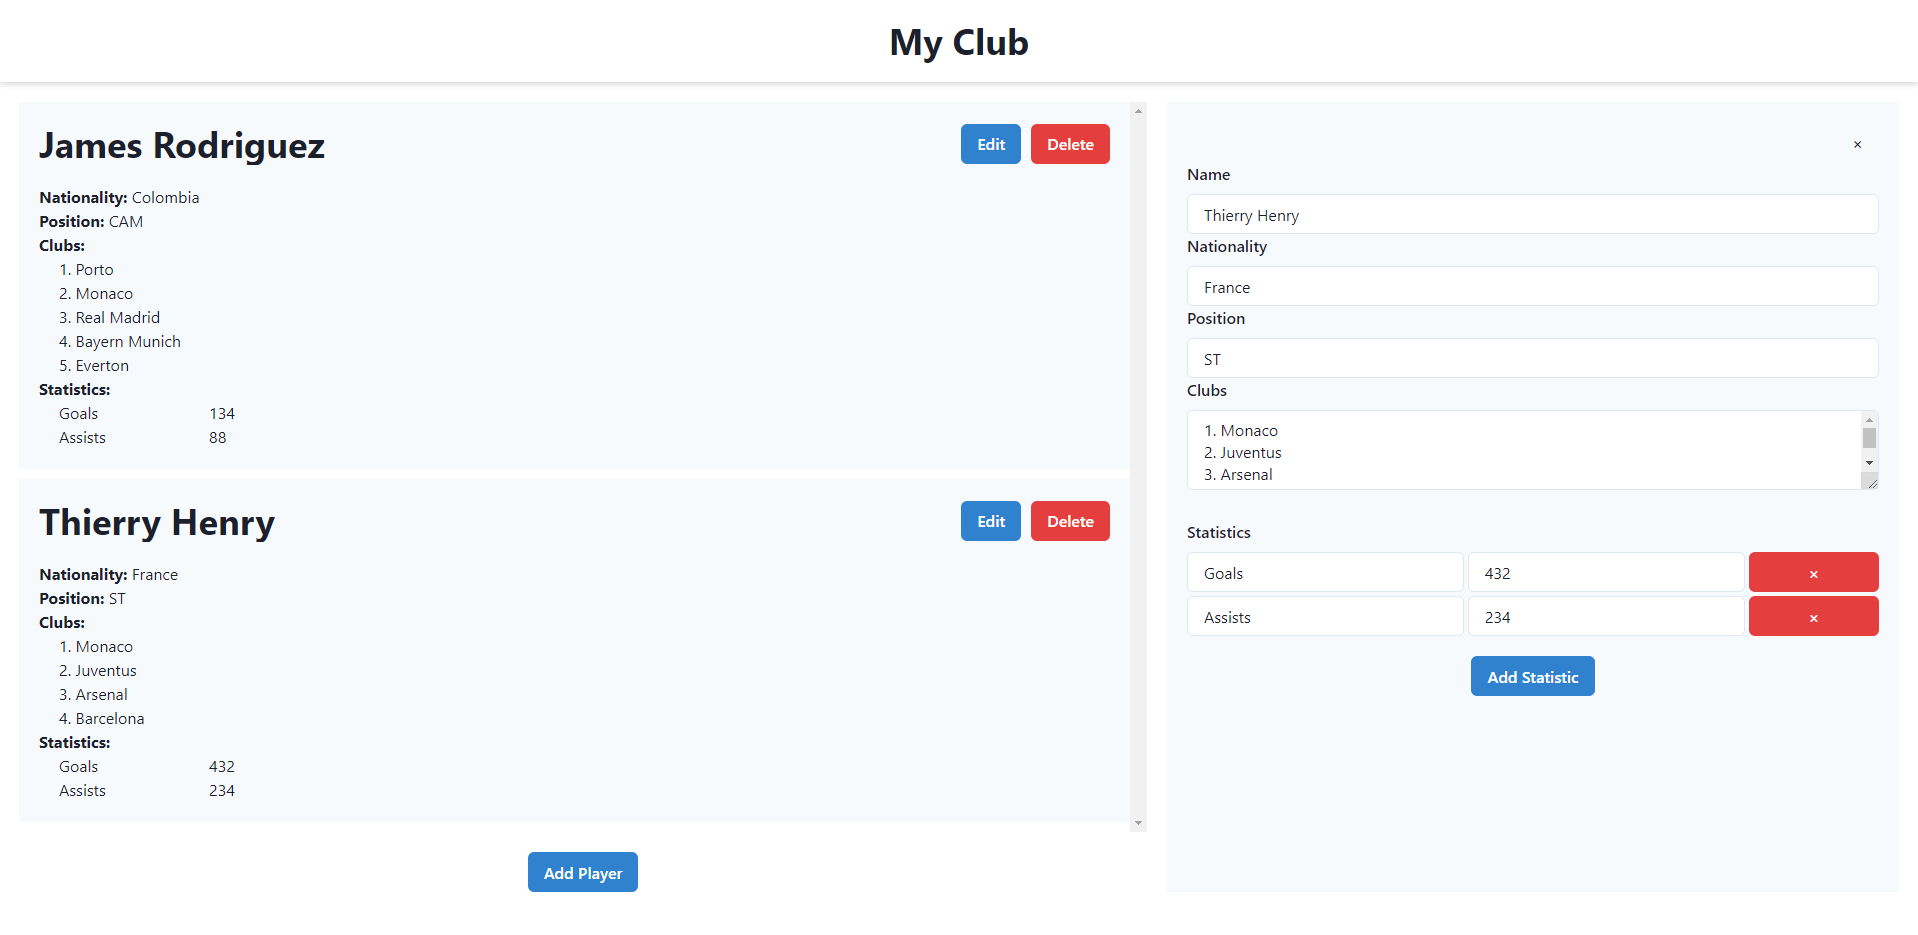
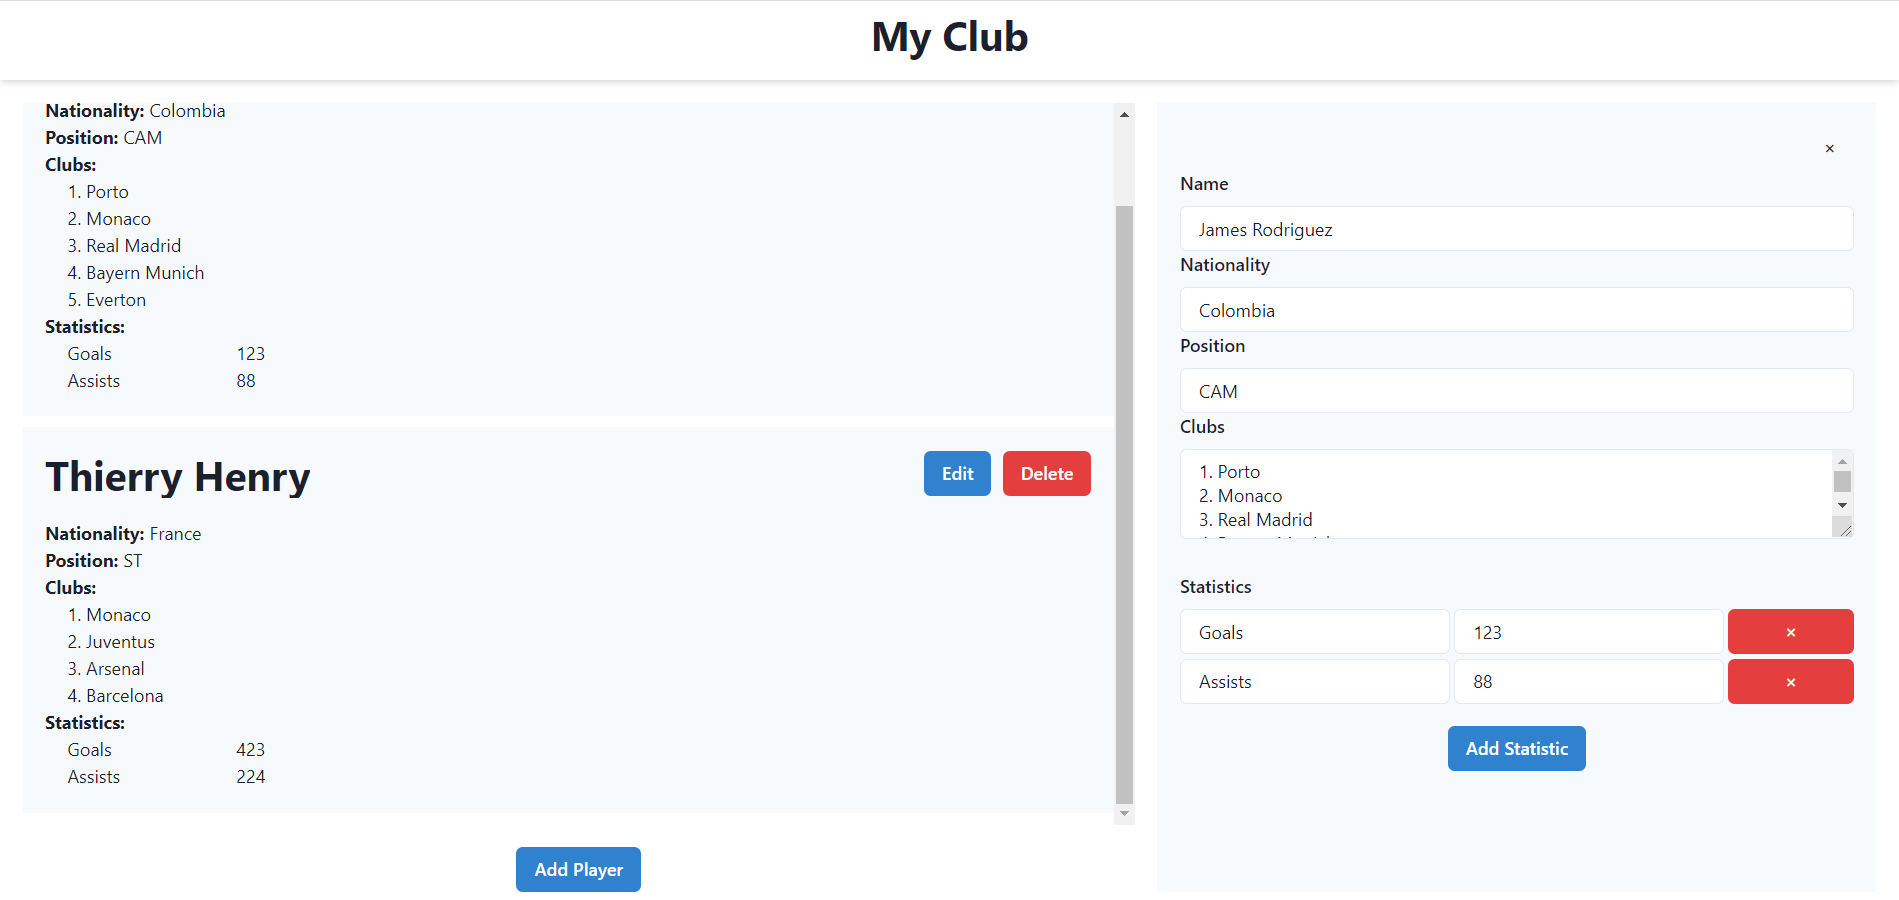
App finished

diff --git a/src/App.js b/src/App.js
@@ -1,22 +1,27 @@
 import React, { useState, useEffect } from "react";
-import "./App.scss";
-import { v4 as uuidv4 } from "uuid";
+import { Grid } from "@chakra-ui/react";
 
+import "./App.scss";
 import PlayerList from "./components/PlayerList";
 import PlayerEdit from "./components/PlayerEdit";
 import Navbar from "./components/Navbar";
+import { samplePlayers } from "./sample-players";
 
-import { Grid } from "@chakra-ui/react";
+// Library for generating random unique ids
+import { v4 as uuidv4 } from "uuid";
 
 export const PlayerContext = React.createContext();
 
 function App() {
   const [selectedPlayerId, setSelectedPlayerId] = useState();
   const [players, setPlayers] = useState(samplePlayers);
+
+  // Get a player with selected id
   const selectedPlayer = players.find(
     (player) => player.id === selectedPlayerId
   );
 
+  // On first render set players to players from LS, otherwise set them to samplePlayers
   useEffect(() => {
     const playersJSON = localStorage.getItem("players");
     if (playersJSON != null) {
@@ -24,10 +29,12 @@ function App() {
     }
   }, []);
 
+  // On first render and when players change, set them to LS
   useEffect(() => {
     localStorage.setItem("players", JSON.stringify(players));
   }, [players]);
 
+  // Declare functions for CRUD operations with players, pass them to context
   const playerContextValue = {
     handlePlayerAdd,
     handlePlayerDelete,
@@ -35,6 +42,7 @@ function App() {
     handlePlayerChange,
   };
 
+  // Add blank player and select him
   function handlePlayerAdd() {
     const newPlayer = {
       id: uuidv4(),
@@ -48,6 +56,7 @@ function App() {
     setPlayers([...players, newPlayer]);
   }
 
+  // Change player after editing
   function handlePlayerChange(id, player) {
     const newPlayers = [...players];
     const index = newPlayers.findIndex((player) => player.id === id);
@@ -55,6 +64,7 @@ function App() {
     setPlayers(newPlayers);
   }
 
+  // Delete player by id passed
   function handlePlayerDelete(id) {
     if (selectedPlayerId != null && selectedPlayerId === id) {
       setSelectedPlayerId(undefined);
@@ -62,6 +72,7 @@ function App() {
     setPlayers(players.filter((player) => player.id !== id));
   }
 
+  // Select player (set the state)
   function handlePlayerSelect(id) {
     setSelectedPlayerId(id);
   }
@@ -76,46 +87,5 @@ function App() {
     </PlayerContext.Provider>
   );
 }
-
-const samplePlayers = [
-  {
-    id: 1,
-    name: "James Rodriguez",
-    nationality: "Colombia",
-    position: "CAM",
-    clubs: "1. Porto\n2. Monaco\n3. Real Madrid\n4. Bayern Munich\n5. Everton",
-    statistics: [
-      {
-        id: 1,
-        name: "Goals",
-        amount: 123,
-      },
-      {
-        id: 2,
-        name: "Assists",
-        amount: 88,
-      },
-    ],
-  },
-  {
-    id: 2,
-    name: "Thierry Henry",
-    nationality: "France",
-    position: "ST",
-    clubs: "1. Monaco\n2. Juventus\n3. Arsenal\n4. Barcelona",
-    statistics: [
-      {
-        id: 1,
-        name: "Goals",
-        amount: 423,
-      },
-      {
-        id: 2,
-        name: "Assists",
-        amount: 224,
-      },
-    ],
-  },
-];
 
 export default App;

diff --git a/src/components/PlayerEdit.js b/src/components/PlayerEdit.js
@@ -1,8 +1,5 @@
 import React, { useContext } from "react";
-import StatisticEdit from "./StatisticEdit";
 import { PlayerContext } from "../App";
-import { v4 as uuidv4 } from "uuid";
-
 import {
   Flex,
   Box,
@@ -14,6 +11,11 @@ import {
   Stat,
 } from "@chakra-ui/react";
 
+import StatisticEdit from "./StatisticEdit";
+
+// Lib for generating random unique id
+import { v4 as uuidv4 } from "uuid";
+
 export default function PlayerEdit({ player }) {
   const { handlePlayerChange, handlePlayerSelect } = useContext(PlayerContext);
 
@@ -21,6 +23,7 @@ export default function PlayerEdit({ player }) {
     handlePlayerChange(player.id, { ...player, ...changes });
   }
 
+  // Similar to handlePlayerChange, replace changed statistic with new one
   function handleStatisticChange(id, statistic) {
     const newStatistics = [...player.statistics];
     const index = newStatistics.findIndex((statistic) => statistic.id === id);
@@ -28,6 +31,7 @@ export default function PlayerEdit({ player }) {
     handleChange({ statistics: newStatistics });
   }
 
+  // Create blank statistic
   function handleStatisticAdd() {
     const newStatistic = {
       id: uuidv4(),
@@ -37,6 +41,7 @@ export default function PlayerEdit({ player }) {
     handleChange({ statistics: [...player.statistics, newStatistic] });
   }
 
+  // Delete statistic by id passed
   function handleStatisticDelete(id) {
     handleChange({
       statistics: player.statistics.filter((statistic) => statistic.id !== id),

diff --git a/src/sample-players.js b/src/sample-players.js
@@ -1,0 +1,41 @@
+// Default players if there is no player in LS
+export const samplePlayers = [
+  {
+    id: 1,
+    name: "James Rodriguez",
+    nationality: "Colombia",
+    position: "CAM",
+    clubs: "1. Porto\n2. Monaco\n3. Real Madrid\n4. Bayern Munich\n5. Everton",
+    statistics: [
+      {
+        id: 1,
+        name: "Goals",
+        amount: 123,
+      },
+      {
+        id: 2,
+        name: "Assists",
+        amount: 88,
+      },
+    ],
+  },
+  {
+    id: 2,
+    name: "Thierry Henry",
+    nationality: "France",
+    position: "ST",
+    clubs: "1. Monaco\n2. Juventus\n3. Arsenal\n4. Barcelona",
+    statistics: [
+      {
+        id: 1,
+        name: "Goals",
+        amount: 423,
+      },
+      {
+        id: 2,
+        name: "Assists",
+        amount: 224,
+      },
+    ],
+  },
+];

diff --git a/src/components/PlayerList.js b/src/components/PlayerList.js
@@ -1,11 +1,11 @@
 import React, { useContext } from "react";
-import Player from "./Player";
 import { PlayerContext } from "../App";
-
 import { Box, Button, Flex } from "@chakra-ui/react";
 
+import Player from "./Player";
+
 export default function PlayerList({ players }) {
-  const { handlePlayerAdd, handlePlayerDelete } = useContext(PlayerContext);
+  const { handlePlayerAdd } = useContext(PlayerContext);
 
   return (
     <Box className="PlayerList">

diff --git a/src/components/Player.js b/src/components/Player.js
@@ -1,8 +1,8 @@
 import React, { useContext, useEffect } from "react";
-import StatisticList from "./StatisticList";
+import { Box, Flex, Heading, Button } from "@chakra-ui/react";
 import { PlayerContext } from "../App";
 
-import { Box, Flex, Heading, Button } from "@chakra-ui/react";
+import StatisticList from "./StatisticList";
 
 export default function Player(props) {
   const { handlePlayerDelete, handlePlayerSelect } = useContext(PlayerContext);

diff --git a/src/components/StatisticEdit.js b/src/components/StatisticEdit.js
@@ -1,10 +1,10 @@
 import React from "react";
-
 import { Grid, FormControl, Input, Button } from "@chakra-ui/react";
 
 export default function StatisticEdit(props) {
   const { statistic, handleStatisticChange, handleStatisticDelete } = props;
 
+  // Change statistic
   function handleChange(changes) {
     handleStatisticChange(statistic.id, { ...statistic, ...changes });
   }

diff --git a/src/components/Navbar.js b/src/components/Navbar.js
@@ -1,8 +1,6 @@
 import React from "react";
 import { Flex, Image, Heading } from "@chakra-ui/react";
 
-import logo from "../assets/logo.png";
-
 export default function Navbar() {
   return (
     <Flex justifyContent="center" alignItems="center" p={5} boxShadow="md">

diff --git a/src/components/StatisticList.js b/src/components/StatisticList.js
@@ -1,4 +1,5 @@
 import React from "react";
+
 import Statistic from "./Statistic";
 
 export default function StatisticList({ statistics }) {
